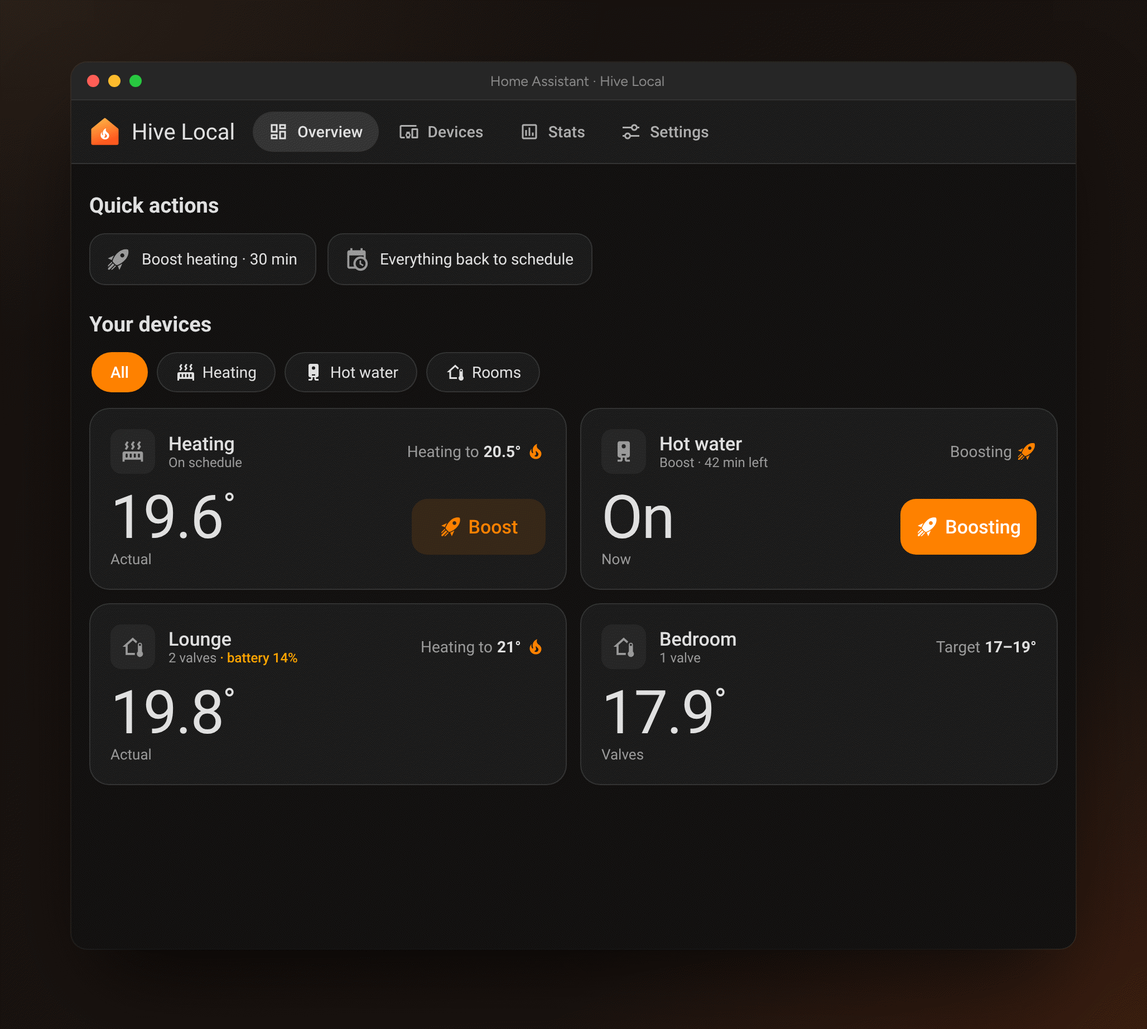
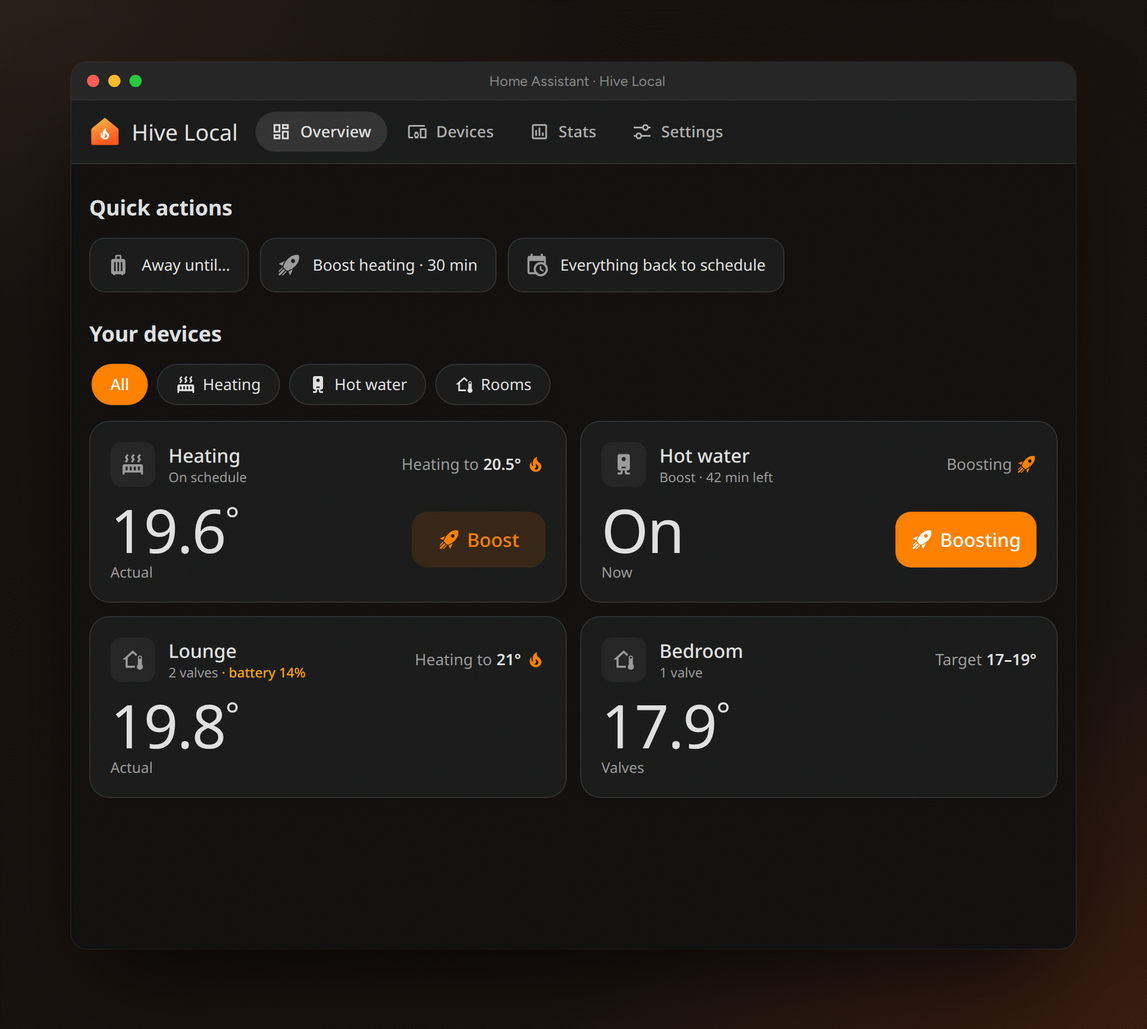
docs(readme): shorter readme, detail moved to the wiki, new screenshots
The readme is now an overview: features, install, a screenshot grid and
links to the wiki. New screenshots: the heating page with pre-heat, the
devices tab, the away sheet and three phone screens.

diff --git a/docs/screenshots/harness/compose.html b/docs/screenshots/harness/compose.html
@@ -48,7 +48,7 @@
 </head>
 <body>
 <script>
-  // ?kind=frame&img=overview.png&w=900&title=… | hero | social ; &theme=night for a dark backdrop
+  // ?kind=frame&img=overview.png&w=900&title=… | hero | phones&imgs=a,b,c | social ; &theme=night for a dark backdrop
   const q = new URLSearchParams(location.search);
   const kind = q.get("kind");
   const theme = q.get("theme") === "night" ? "night" : "warm";
@@ -72,6 +72,13 @@
       <div class="stage warm" style="width:1400px;height:860px">
         <div style="position:absolute;left:64px;top:58px">${win("overview.png", 980)}</div>
         ${phone("phone.png", 1012, 52, 0.86)}
+      </div>`;
+  } else if (kind === "phones") {
+    // Three phones side by side: ?imgs=a.png,b.png,c.png
+    const imgs = (q.get("imgs") || "").split(",");
+    document.body.innerHTML = `
+      <div class="stage warm" style="width:1400px;height:900px">
+        ${imgs.map((src, i) => phone(src, 92 + i * 424, 56, 0.92)).join("")}
       </div>`;
   } else if (kind === "social") {
     document.body.innerHTML = `

diff --git a/docs/screenshots/harness/harness.js b/docs/screenshots/harness/harness.js
@@ -61,6 +61,9 @@ const STATUS = {
       boost_minutes: 30,
       boost_temperature: 21,
       frost_temperature: 12,
+      // Pre-heat on, with a learned warm-up rate and the next rise planned.
+      preheat: { enabled: true, max_lead: 120, rate: 1.6, warmups: 9, warmups_needed: 3, rate_known: true, schedule_known: true, active_for: null,
+        next: { at: "16:30", setpoint: 20.5, start: "15:52", skipped: false } },
     },
     water: {
       status: { mode: "boost", boost_remaining: 42, current_temperature: null, setpoint: 22, heating: true },

diff --git a/README.md b/README.md
@@ -5,10 +5,6 @@
   </picture>
 </h1>
 
-<!-- ha-marketplace:exclude-start -->
-[![Open your Home Assistant instance and show Hive Local in the Marketplace.](https://my.home-assistant.io/badges/marketplace_repository.svg)](https://my.home-assistant.io/redirect/marketplace_repository/?owner=elliotwestlake&repository=hive-local&category=integration)
-<!-- ha-marketplace:exclude-end -->
-
 Local control of Hive heating and hot water from Home Assistant, with no Hive cloud and no Hive hub. It adds a **Hive** sidebar panel and entities for boost and mode. Schedules are written to the receiver itself, so they keep running if HA is down.
 
 ![The Hive panel on a desktop and a phone: heating following its schedule, and hot water on a boost.](https://raw.githubusercontent.com/elliotwestlake/hive-local/main/docs/screenshots/hero.png)
@@ -19,177 +15,54 @@ Hive Local is an independent community project. It isn't affiliated with, endors
 
 > ⚠ Early and experimental. Z2M includes the standard Zigbee `setWeeklySchedule` / `getWeeklySchedule` commands for these receivers but hides them from its UI. Reading works on a real SLR1-style receiver. Writing is still being tested, so read before you write, and check the change shows on the thermostat.
 
+## Features
+
+- **A Hive panel** in the sidebar: Overview, Devices, Stats and Settings, with a bottom tab bar on phones.
+- **Schedules** read from and written to the receiver, a day at a time, so they keep running without HA.
+- **Boost, Schedule / Manual / Off** and a target − / +, like the thermostat.
+- **Rooms** of Hive radiator valves, with one target per room and battery warnings.
+- **Stats:** how long the boiler ran, the temperature outside, and an estimated cost from your gas meter.
+- **Pre-heat:** starts early so the house is warm by the time the schedule says.
+- **Away until…:** holiday mode that fails safe if Home Assistant goes down.
+- **Entities and actions** for automations, matching the retired Hive Local Thermostat integration.
+
+![Three phone screens: the heating schedule, a room's target and valves, and the boost sheet.](https://raw.githubusercontent.com/elliotwestlake/hive-local/main/docs/screenshots/phones.png)
+
 ## Install
 
-**Marketplace** (HA 2026.11+, formerly HACS): use the **Open your Home Assistant instance** button above, or go to **Settings → Marketplace** → ⋮ → Custom repositories → add this repo as an *Integration*. Install it, then restart HA. On older HA, use the same steps in HACS.
+<!-- ha-marketplace:exclude-start -->
+[![Open your Home Assistant instance and show Hive Local in the Marketplace.](https://my.home-assistant.io/badges/marketplace_repository.svg)](https://my.home-assistant.io/redirect/marketplace_repository/?owner=elliotwestlake&repository=hive-local&category=integration)
+<!-- ha-marketplace:exclude-end -->
 
-**Manual:** copy `custom_components/hive_local` into your HA `config/custom_components/`, then restart.
+1. Add this repo to the **Marketplace** (formerly HACS) as a custom *Integration* repository, install **Hive Local** and restart Home Assistant. (Or copy `custom_components/hive_local` into `config/custom_components/`.)
+2. [![Add Hive Local.](https://my.home-assistant.io/badges/config_flow_start.svg)](https://my.home-assistant.io/redirect/config_flow_start/?domain=hive_local) and choose **Zigbee2MQTT** or **ZHA**, then your receiver (not the wall thermostat).
+3. Open **Hive** in the sidebar, then **Read** your schedule before changing it.
 
-Then add the integration:
+Once it works, disable Zigbee2MQTT's or ZHA's own climate entities for the receiver. Full steps: [Installation](https://github.com/elliotwestlake/hive-local/wiki/Installation).
 
-[![Open your Home Assistant instance and start setting up Hive Local.](https://my.home-assistant.io/badges/config_flow_start.svg)](https://my.home-assistant.io/redirect/config_flow_start/?domain=hive_local)
+## Screenshots
 
-Or go to **Settings → Devices & services → Add integration → Hive Local**. Choose how the receiver is connected:
-
-- **Zigbee2MQTT:** confirm the base topic (default `zigbee2mqtt`), then pick your receiver from the list.
-- **ZHA:** pick the receiver from your ZHA devices (the SLR/OTR receiver, not the wall thermostat).
-
-The receiver type (heating only, or heating + hot water) is detected automatically.
-
-## The Hive panel
-
-Four tabs: Overview, Devices, Stats and Settings. On a phone they move to a bar along the bottom of the screen. Heating and hot water each have their own page, opened from their card on the Overview, with **Control**, **Schedule** and **History** tabs.
-
-- **Overview:** **Quick actions** (boost heating or hot water with your defaults, **Away until…**, or put everything back on its schedule), and **Your devices**, with filters, a card each for heating, hot water and your rooms. Each card shows the temperature (or On/Off), what it's doing (with a tick once a room is up to temperature), and **Boost**: it opens a sheet to pick the temperature (heating) and how long, then **Boost to 22.0° for 2 h**. While boosting the button reads **Boosting**, and opens the time left and **Stop boost**. Tap a heating or hot water card to open its page. **Control** has **−** / **+** for the heating target (like the thermostat: on Schedule it lasts until the next scheduled change, on Manual it changes the held temperature, during a boost it keeps the time left), and Schedule / Manual / Off. Tap a room to open it in a pop-up (from the bottom on a phone): its temperature, **−** / **+** for the room's target, each valve with its reading and battery, and **Edit room**.
-- **Away until…** (a quick action): holiday mode. See [Holiday](#holiday).
-- **Pre-heat** (on the heating page's **Control** tab): starts heating early so the house is warm at the time your schedule says, rather than only starting to warm up then. See [Pre-heat](#pre-heat).
-- **Schedule** (on the heating or hot water page): says whether your schedule is in use, then a row of days (M–S). Pick a day to see its times, like "06:30 – 08:30" with the temperature in a circle (a snowflake means off). Tap a time to change when it starts or its temperature, or remove it; **Add a time** adds one. The **⋯** button reads the schedule from the receiver again or copies the day to weekdays, the weekend or every day. Changes are kept in the panel until you press **Save** on the **Unsaved changes** bar, which writes them to the receiver, and only the days you changed are sent, one command per day, so the rest of the week is never rewritten.
-- **Devices:** a card for each device: your receivers (model, Zigbee2MQTT or ZHA, online, and links to its Heating and Hot water pages) and every Hive radiator valve (its room, battery, whether it's responding, and its temperature). The **+** button adds a receiver (Home Assistant's setup for Hive Local) or explains how to pair a valve.
-- **Stats:** see [Stats](#stats).
-- **Settings:** the outside temperature for Stats (a weather entity or an outdoor sensor), the boiler's output and gas price for an estimated heating cost, your rooms (see [Rooms](#rooms-and-radiator-valves)), and for each receiver the **Boost** defaults (how long, and the heating temperature) and heating **frost protection** (the target shown while the schedule has the heating off; display only). These are the same settings as the receiver's number entities in Home Assistant, so automations see them.
-
-With more than one receiver, the Overview shows every receiver's heating and hot water cards (each opens its own page), and Stats has a tab per receiver.
-
-Schedule limits: 6 events per day, setpoints 1–32 °C in 0.5 steps.
-
-![The heating schedule: a day's times with their temperatures, read from the receiver.](https://raw.githubusercontent.com/elliotwestlake/hive-local/main/docs/screenshots/schedule.png)
-
-![The Overview on Manual, with the boost options open: a length and a temperature.](https://raw.githubusercontent.com/elliotwestlake/hive-local/main/docs/screenshots/controls.png)
-
-![The Overview in a dark theme.](https://raw.githubusercontent.com/elliotwestlake/hive-local/main/docs/screenshots/overview-dark.png)
-
-## Rooms and radiator valves
-
-Rooms group your **Hive radiator valves** (UK7004240) whether they're paired with ZHA or Zigbee2MQTT. Hive Local recognises them by model and uses their climate entities. Set them up under **Settings → Rooms**; each room then has a card on the Overview.
-
-- **Set up rooms from your areas:** shown while any Home Assistant area has Hive valves that aren't in a room. It suggests a room per area with its valves and the area's temperature sensor, if it has one (not a valve's own). Untick any you don't want and press **Create**. With more than one receiver, pick which one heats each room.
-- **Add a room** or tap a room to edit it: a name, its valves, and optionally a temperature sensor (without one, the room shows the average of its valves' readings). The valves are a scrolling list, the likely ones first (this room's, the area matching its name, then valves not in a room yet), with a search box when you have more than 8. Each shows its area, reading and battery, and which room it's in already.
-- **Find** (the bulb) makes a valve flash its light, to tell which is which. It appears when Home Assistant has an Identify button for the valve (ZHA adds one; Zigbee2MQTT only if it exposes identify).
-- Rooms cover the whole house. With more than one receiver (heating zones), each room says which one heats it (**Heated by**).
-- Tap a room's card on the Overview for its temperature, whether any valve is heating, each valve's reading, target and battery (low batteries are flagged), and one **target** that sets all the room's valves at once.
-
-![A room's pop-up: its temperature, target and valves, with batteries.](https://raw.githubusercontent.com/elliotwestlake/hive-local/main/docs/screenshots/rooms.png)
-
-Coming next: the valves using the room sensor's reading (their external sensor setting), and, optionally, rooms calling for heat from the boiler.
-
-## Stats
-
-The **Stats** tab shows how long the boiler ran, laid out as a history:
-
-- Pick **D**, **W** or **M** (a day, a week or a month) and **time on** or **temperature**, and step back to earlier periods with the arrows either side of the date.
-- A summary at the top (for example **Boiler on 22h 58m** and **Average per day 3h 17m**), with the change from the period before, how often it fired up and the boosts.
-- Then a row per day (per hour for a day): a bar, the time on or average temperature, the temperature outside (if set, below) and that day's lowest and highest room temperature.
-- **Outside temperature (optional):** pick a weather entity or an outdoor temperature sensor in the panel's **Settings** tab. Each row then shows the day's low and high outside, and the note under the summary says the average and whether it was colder or milder than the period before. It comes from the same recorder history, so it covers whatever that entity has recorded.
-- **Estimated cost (optional):** a third toggle (the banknote icon) shows the heating's cost: the boiler's time on × its average output while on × the gas price per kWh. Set it up in **Settings → Heating cost**:
-  - **Gas meter (best):** pick your gas meter (the Energy dashboard's gas source, or any gas sensor, e.g. from your energy supplier's integration). Hive Local learns the boiler's real average output from the last 14 days: each day's gas use against the hours the boiler was on, allowing for hot water and cooking on the same meter. It needs at least 4 days of readings with the heating on, and re-learns every 6 hours.
-  - **Boiler rating:** without a gas meter, enter the boiler's rated output (kW). It's counted at 40%, since a modern boiler turns its flame down and rarely runs flat out; the real figure varies, so a gas meter is much closer.
-  - **Gas price:** from the Energy dashboard (your gas source's price), a sensor or number with a price per kWh or per m³ (for example a tariff sensor), or **Unit rate**: your gas unit rate from your bill, set with − / + in pence (0.01p a tap; hold to go faster). Prices per m³ are converted at 11.2 kWh/m³.
-  
-  It's an estimate, at today's price for the whole period. Heating only: hot water shares the boiler.
-- The Stats tab is the heating history, with a tab for each receiver if you have several. Each heating or hot water page has the same history for just that one, under **History**.
-
-It's worked out from Home Assistant's own history of the Hive Local heating and hot water entities, so it needs the recorder (on by default) and starts from when you installed Hive Local. The recorder keeps 10 days unless you raise `purge_keep_days`, so months and earlier weeks need that too.
-
-![Stats: a week of heating, with the boiler's time on each day, the temperature outside and the room's low and high.](https://raw.githubusercontent.com/elliotwestlake/hive-local/main/docs/screenshots/stats.png)
-
-## Pre-heat
-
-Off by default. Turn it on from the heating page's **Control** tab, or with `switch.<receiver>_pre_heat`.
-
-- **How fast your home warms up** is learned from Home Assistant's history of the heating: each time the boiler ran from at least 1° below the target for 20 minutes or more, how quickly the temperature rose. It takes the middle value of the last 14 days, and starts once it has seen 3 warm-ups (the card says how many so far).
-- **When to start:** before each rise in the schedule (say 16° to 20° at 06:30), it works out how long the climb takes from the current temperature, adds 10 minutes, and starts then. **Start at most** (default 2 h, `number.<receiver>_pre_heat_starts_at_most`) caps how early that can be.
-- **How:** it boosts to the new temperature until the scheduled time, so the cards say **Pre-heating for 06:30**. When the boost ends the receiver is already on the new temperature, and if Home Assistant stops halfway, the receiver ends the boost itself and carries on with its schedule. Only from Schedule mode, never on Manual or Off, and never over a boost you started. If you stop a pre-heat, that change is left alone. Stats counts pre-heating as following the schedule, not as a boost.
-- **The schedule** is the one on the receiver. Hive Local keeps a copy whenever the panel reads or saves it, reads it when you turn pre-heat on (if it hasn't got a full week yet), and reads it again every night at 03:17, because the thermostat can change it too.
-
-Needs the recorder (it's on by default in Home Assistant).
-
-## Holiday
-
-**Away until…** on the Overview (or `hive_local.set_holiday`) keeps the heating at a low temperature and turns the hot water off until the date and time you pick, then puts everything back to what it was doing before (the schedule, or your manual hold). It covers every receiver. The temperature defaults to your frost protection setting (`number.<receiver>_heating_frost_protection`, 12 °C unless you've changed it).
-
-- The cards say **Away until Sat 14:00**, and **End holiday** (a quick action, or **End** on the heating or hot water page) comes back early. **−** / **+** changes the holiday temperature.
-- A boost while you're away is fine: when it ends, the holiday carries on.
-- If anyone changes the mode while you're away (on the thermostat, or the mode select), the holiday ends there and their change stays.
-- **If Home Assistant goes down:** the heating is held with a boost of up to 6 hours that Home Assistant renews every hour (the thermostat shows a boost). If Home Assistant stops, the boost runs out and the heating goes back to normal within 6 hours, and in the last 6 hours it's set to end exactly when you're back. Hot water stays off until Home Assistant is back. When it is, the holiday carries on (or ends, if it's over).
-- Radiator valves in your rooms aren't changed.
-
-## Entities and actions
-
-**`climate.<receiver>_heating`**: the main heating control.
-- **HVAC modes:** `auto` follows the onboard schedule, `heat` holds the target temperature, `off` is off.
-- **Target temperature:** works like turning the thermostat dial. On `auto`, it overrides the schedule until the next scheduled change (up or down). On `heat`, it changes the held temperature. During a boost, it changes the boost temperature and keeps the time left. During a schedule "off" period (Hive reports 1 °C) the target shows your frost protection temperature (below), so you can still adjust it.
-- **Boost preset:** uses the boost defaults below. Clearing it goes back to the previous mode.
-- **Away preset:** shown while on [holiday](#holiday); clearing it ends the holiday. It's started with `hive_local.set_holiday` (it needs an end time). The `holiday_until` attribute (also on the hot water entity) says when it ends.
-
-**`water_heater.<receiver>_hot_water`** (SLR2 only): Schedule / On / Off / Boost. Turn on goes back to Schedule.
-
-Also, for each channel:
-
-| Entity | What it does |
+| | |
 |---|---|
-| `select.<receiver>_heating_mode` | Schedule / Manual / Off / Boost. Picking Boost uses the boost defaults below. |
-| `sensor.<receiver>_heating_boost_remaining` | Minutes left on a boost, 0 when not boosting. |
-| `sensor.<receiver>_temperature` | Room temperature reported by the thermostat (heating only), with long-term statistics. |
-| `button.<receiver>_boost_heating` / `cancel_heating_boost` | Start or cancel a boost. |
-| `number.<receiver>_heating_boost_duration` / `heating_boost_temperature` | Defaults used by the button, the select and the actions. These are stored in HA, not on the receiver. |
-| `switch.<receiver>_pre_heat` / `number.<receiver>_pre_heat_starts_at_most` | [Pre-heat](#pre-heat) on or off, and how early it may start (15–240 minutes). Stored in HA. |
-| `number.<receiver>_heating_frost_protection` | Set this to match the frost protection on your Hive thermostat (default 12 °C). During a schedule "off" period the receiver reports 1 °C, so this is shown as the target instead. Also the default [holiday](#holiday) temperature. Otherwise display only. |
+| ![The heating page: target, Schedule / Manual / Off, and pre-heat.](https://raw.githubusercontent.com/elliotwestlake/hive-local/main/docs/screenshots/heating.png) | ![The schedule for a day, with each time's temperature.](https://raw.githubusercontent.com/elliotwestlake/hive-local/main/docs/screenshots/schedule.png) |
+| **Heating:** target, mode, boost and pre-heat. | **Schedule:** edit a day, copy it, save only what changed. |
+| ![Devices: the receiver and every Hive radiator valve, with batteries.](https://raw.githubusercontent.com/elliotwestlake/hive-local/main/docs/screenshots/devices.png) | ![Stats: a week of boiler time with the temperature outside.](https://raw.githubusercontent.com/elliotwestlake/hive-local/main/docs/screenshots/stats.png) |
+| **Devices:** receivers and valves at a glance. | **Stats:** boiler time, outside temperature, cost. |
+| ![The Away sheet: back on a date, heating held at 12°.](https://raw.githubusercontent.com/elliotwestlake/hive-local/main/docs/screenshots/holiday.png) | ![The Overview in a dark theme.](https://raw.githubusercontent.com/elliotwestlake/hive-local/main/docs/screenshots/overview-dark.png) |
+| **Away until…:** holiday mode. | Follows your Home Assistant theme. |
 
-Actions: `hive_local.boost_heating` (`minutes`, `temperature`), `hive_local.boost_water` (`minutes`), `hive_local.cancel_boost_heating`, `hive_local.cancel_boost_water`. Each takes an optional `device_id`, which is only needed if you have more than one receiver. `hive_local.set_holiday` (`until`, optional `temperature`) and `hive_local.cancel_holiday` cover every receiver unless you pass a `device_id`; see [Holiday](#holiday). Cancelling a boost returns the channel to whatever it was doing before. If the receiver is still boosting a couple of minutes after a boost should have ended (it can lose track of the time), Hive Local ends it for you the same way.
+## Documentation
 
-```yaml
-action: hive_local.boost_heating
-data:
-  minutes: 60
-  temperature: 21
-```
+The [wiki](https://github.com/elliotwestlake/hive-local/wiki) covers everything in detail:
 
-### Replacing Zigbee2MQTT's or ZHA's own entities
-
-Zigbee2MQTT's MQTT discovery and ZHA both create their own climate entities for the receiver. Those don't know about Hive's schedule/manual/boost behaviour. Once Hive Local is working, disable them in HA: **Settings → Devices & services → MQTT (or ZHA) → the receiver → the climate entities → ⚙ → Enabled: off**. Zigbee2MQTT or ZHA keeps handling the Zigbee side, and Hive Local's entities become the only ones you use.
-
-### ZHA: receiver light goes red every few minutes
-
-On ZHA, a Hive receiver can lose its wall thermostat every few minutes: the light turns red, the boiler switches off, and the thermostat says "No signal". ZHA sets the thermostat to report its temperature only every 15 minutes, and the receiver gives up on it long before that ([zha-device-handlers#2776](https://github.com/zigpy/zha-device-handlers/issues/2776)).
-
-Hive Local fixes this for you on ZHA: it finds Hive SLT thermostats and sets them to report at least every 2 minutes. The thermostat sleeps, so this happens just after it next reports (within 15 minutes), and it's re-applied daily in case ZHA reconfigures it. The log shows `Hive thermostat … now reports temperature at least every 120 s` once it's done.
-
-If the thermostat says it isn't paired at all, re-pair it through the receiver: factory-reset the thermostat, then in ZHA open the receiver and use **Add devices via this device**.
-
-### Hot water values
-
-The setpoints the receiver uses for hot water on/off in a schedule are **not yet confirmed**. They default to `WATER_ON = 22` and `WATER_OFF = 1` in `const.py`. Read your existing hot water schedule first. If the panel shows values like `22°?`, update the constants to match.
-
-## Test it by hand (Z2M → device → Dev console)
-
-Run the `getWeeklySchedule` command on the `hvacThermostat` cluster (endpoint 5 on SLR2) with `{"daystoreturn": 127, "modetoreturn": 1}`. The Z2M log should show one `weekly_schedule` (SLR1) or `weekly_schedule_heat` (SLR2) message per day.
+- [Installation](https://github.com/elliotwestlake/hive-local/wiki/Installation) · [The Hive panel](https://github.com/elliotwestlake/hive-local/wiki/The-Hive-panel) · [Schedules](https://github.com/elliotwestlake/hive-local/wiki/Schedules)
+- [Rooms and radiator valves](https://github.com/elliotwestlake/hive-local/wiki/Rooms-and-radiator-valves) · [Stats and heating cost](https://github.com/elliotwestlake/hive-local/wiki/Stats-and-heating-cost)
+- [Pre-heat](https://github.com/elliotwestlake/hive-local/wiki/Pre-heat) · [Holiday](https://github.com/elliotwestlake/hive-local/wiki/Holiday) · [Entities and actions](https://github.com/elliotwestlake/hive-local/wiki/Entities-and-actions)
+- [Troubleshooting](https://github.com/elliotwestlake/hive-local/wiki/Troubleshooting) (including ZHA's "receiver goes red" fix) · [Development](https://github.com/elliotwestlake/hive-local/wiki/Development)
 
 ## Acknowledgements
 
-- **[Hive Local Thermostat](https://github.com/andrew-codechimp/HA-Hive-Local-Thermostat)** by Andrew Jackson showed how to drive Hive receivers locally through Zigbee2MQTT. Hive Local's boost, cancel-boost and mode entities, its actions and its frost protection setting were designed to match it, so moving across feels familiar. That integration is now retired.
-- **[HomeDash's fork](https://github.com/homedashHA/HA-Hive-Local-Thermostat)** keeps Hive Local Thermostat going. Its fix for receivers that lose track of a boost inspired Hive Local's own boost deadline.
-- **mikestir**, who tracked the ZHA "receiver goes red" problem down to the thermostat's reporting interval in [zha-device-handlers#2776](https://github.com/zigpy/zha-device-handlers/issues/2776). Hive Local applies that fix automatically.
-- The **[Drayton Wiser integration](https://github.com/asantaga/wiserHomeAssistantPlatform)**, whose sidebar panel inspired the Hive panel.
-- **[Zigbee2MQTT](https://www.zigbee2mqtt.io/)** and **[zigpy](https://github.com/zigpy/zigpy)**, whose device definitions document the Hive receivers' schedule and hold attributes.
-
-## Development
-
-```bash
-cd frontend && npm install && npm run build   # writes custom_components/hive_local/frontend/hive-local-panel.js
-npm run watch                                  # rebuild on change
-pytest -q tests                                # pure logic tests (no HA needed)
-```
-
-The built bundle is committed so Marketplace users don't need a build step.
-
-### Screenshots and logo
-
-The README screenshots are the real panel bundle rendered with sample data. `docs/screenshots/harness/` has `harness.html` (a fake `hass` with HA's theme colours and sample rooms), `compose.html` (window frames, the desktop + phone hero and the social preview) and `shoot.sh`, which retakes all of them after `npm run build`:
-
-```bash
-CHROME=/path/to/chrome-headless-shell PYTHON=python3 docs/screenshots/harness/shoot.sh   # PYTHON needs Pillow
-```
-
-If the panel uses new icons, regenerate `icons.json` first: `node build_icons.mjs ../../../frontend/src icons.json` (needs `@mdi/js`).
-
-The logo lives in `docs/logo/`: `icon.svg`, `logo.svg` and `logo-dark.svg` (for dark backgrounds), all with the text converted to outlines, plus PNG exports and `social-preview.png` (1280×640). `make_logo.py` regenerates the SVGs (`pip install fonttools`; the wordmark is Figtree, SIL Open Font License, and the script shows where to download it). The integration's `brand/` images are rendered from the same SVGs.
+- **[Hive Local Thermostat](https://github.com/andrew-codechimp/HA-Hive-Local-Thermostat)** by Andrew Jackson showed how to drive Hive receivers locally; Hive Local's entities and actions match it, so moving across feels familiar. **[HomeDash's fork](https://github.com/homedashHA/HA-Hive-Local-Thermostat)** keeps it going, and inspired the boost deadline.
+- **mikestir** tracked down ZHA's "receiver goes red" problem in [zha-device-handlers#2776](https://github.com/zigpy/zha-device-handlers/issues/2776).
+- The **[Drayton Wiser integration](https://github.com/asantaga/wiserHomeAssistantPlatform)**, whose sidebar panel inspired this one.
+- **[Zigbee2MQTT](https://www.zigbee2mqtt.io/)** and **[zigpy](https://github.com/zigpy/zigpy)**, whose device definitions document the receivers.

diff --git a/CLAUDE.md b/CLAUDE.md
@@ -109,7 +109,7 @@ Goal: one system of receiver (boiler) plus rooms of **Hive** valves, on ZHA or Z
 - **Logo and brand images:** the source is `docs/logo/` (`icon.svg`, `logo.svg`, `logo-dark.svg`, outlined text, from `make_logo.py`), and `brand/` is rendered from it. Our own mark: a house (amber→orange, rounded corners) with a white MDI flame, i.e. local heating. The wordmark is Figtree, "Hive" bold and "Local" regular. Chosen by Elliot on 2026-11-18 from four concepts (dial, radiator cell, honeycomb, home flame). `docs/logo/social-preview.png` is for GitHub's social preview (set by hand in repo Settings). Don't use Hive's logo: we say we're not affiliated, and it's their trademark.
 - **One accent colour:** `--hl-brand` in `styles.ts` is HA's heating orange (`--state-climate-heat-color`, #ff8100); Elliot tried violet, teal, ember and the theme colour and kept orange (2026-11-22). Heating and hot water share it (`--hl-heat` / `--hl-water` point at it), and it only marks what's on or active. Boost is an orange-tinted button, solid orange while Boosting; the selected filter pill is filled orange; the boost sheet's temperature is an orange gradient (as in the reference). The schedule timeline keeps its temperature colours.
 - **Flat look (Elliot, 2026-11-22):** no drop shadows anywhere in the panel, and icons are grey (`--secondary-text-color`), never orange/blue: on cards and card titles they sit in a shaded rounded box (`--hl-soft`, 40 px, radius 10), quick-action icons sit bare; colour is kept for state (flame, Boost/Boosting, heating text). Separate things with borders (`--divider-color`) and tinted fills instead. Outline rings (focus, the timeline's now marker, the heating dot) are fine.
-- **README screenshots** are the real built panel rendered with sample data (`docs/screenshots/harness/`, see README → Development → Screenshots). Retake them when the panel changes noticeably.
+- **README and wiki:** the README is a short overview (features, install, a screenshot grid, links); the detail lives in the GitHub wiki (Installation, The Hive panel, Schedules, Rooms, Stats, Pre-heat, Holiday, Entities and actions, Troubleshooting, Development; a separate git repo, `hive-local.wiki.git`). Document new features on the wiki and add a line to the README's Features only if it's a headline. Screenshots are the real built panel rendered with sample data (`docs/screenshots/harness/`, `shoot.sh`; see the wiki's Development page), embedded from `main` by raw URL. Retake them when the panel changes noticeably.
 - **Shipping an update (release-please, from 0.10.0):** don't bump versions or write notes by hand. Merge PRs to main (squash-merge only, titled as a conventional commit, which `commits.yml` checks). `.github/workflows/release-please.yml` keeps one open release PR, `chore(release): x.y.z`, with the version bump (`version.txt`, `.release-please-manifest.json` and `manifest.json` via `extra-files`) and `CHANGELOG.md`, its notes grouped from the commits since the last release (`feat` → New, `fix` → Fixed, `perf`, `revert`; docs/ci/chore/refactor/test/style/build hidden). Below 1.0 a `feat` bumps the minor and a `fix` the patch. Merging the release PR tags it and publishes the GitHub release (the Marketplace (formerly HACS) offers releases as updates; without one, **Update** stays greyed out). Config: `release-please-config.json`. **`last-release-sha` is set to `daafe04` (the squashed 0.9.0 commit, since the v0.9.0 tag points at a commit no longer on main): remove it from the config once 0.10.0 is released**, or every later release PR will count from 0.9.0. It uses the built-in token, so the release PR is by github-actions[bot], not Elliot (his choice over a personal token or a GitHub App, 2026-11-24). Changes made with that token don't trigger `pull_request` workflows, so after creating or updating the release PR `release-please.yml` starts them by hand (workflow_dispatch, which that token may do): `validate.yml` on the release branch, `commits.yml` with the PR's title and base as inputs, and `prerelease.yml` (with the PR number) when the PR has the `pre-release` label. Their check runs land on the branch's head commit, so they show on the PR. The repo setting "Allow GitHub Actions to create and approve pull requests" must be on. **Pre-releases:** add the `pre-release` label to the release PR (adding it triggers `prerelease.yml` directly, since a person does it); `.github/workflows/prerelease.yml` publishes that version as a GitHub pre-release from the PR's head with the PR's notes, and republishes it on every later push (a pre-release of the same version is deleted with its tag and recreated; a full release is never touched). Testers **Redownload** it, as the version number doesn't change. **Any other PR** can be labelled too (2026-11-24: labelling feature PR #28 did nothing, since only release PRs bump the version and v0.9.0 was already released): it's published as the version it would lead to plus `-beta.<PR>` (from the PR title: `feat` → next minor below 1.0, `!` → next minor, anything else → next patch; e.g. `v0.10.0-beta.28`), tagged on a commit the workflow makes off any branch with that version in manifest.json. Closing the PR or removing the label deletes it. When the release PR merges, `release-please.yml` deletes that pre-release first so release-please can publish the real one under the same tag. Notes for 0.4.0–0.9.0 are in `docs/releases/` (no longer written); `release.yml` is gone. Cloud sessions can't push tags (the git proxy returns 403) or create releases (the API returns 403), which is why it all goes through workflows.
 - **PR descriptions (Elliot, 2026-11-24):** keep them short: a line or two on what it does, the screenshots, a few bullets, one line on testing; no file-by-file changes or long rationale. Write them full width (one line per paragraph or bullet, no hard wraps at 72 columns, so don't just reuse a wrapped commit body), start with `Closes #n` for the issue, and include screenshots of any panel change. Render them with the harness (`docs/screenshots/harness/`, add the shot to `shoot.sh`), commit them under `docs/screenshots/`, and embed them with `https://github.com/elliotwestlake/hive-local/blob/<commit sha>/docs/screenshots/<name>.png?raw=true` so the image stays put after later pushes.
 - Python: HA style, type hints, `from __future__ import annotations`. Keep `schedule.py`, `z2m.py` and `devices.py` free of HA imports so it stays testable.
